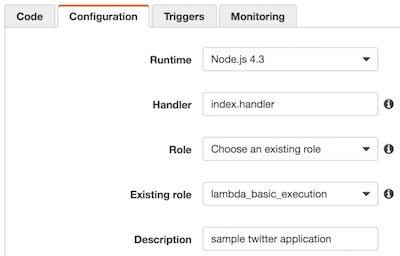
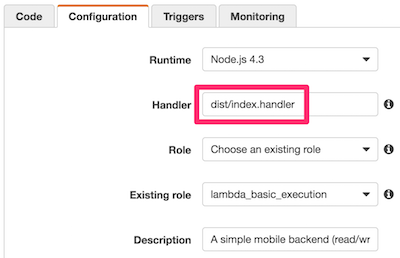
Change module interfaces

diff --git a/lambdaDriver.js b/lambdaDriver.js
@@ -1,8 +1,9 @@
-var index = require('./index')
+var index = require('./dist/index')
 
 var event = {}
-// var event = { city: 140010 }
+
 var context = {}
+
 var callback = function (err, result) {
   if (err) {
     console.log(err.message)
